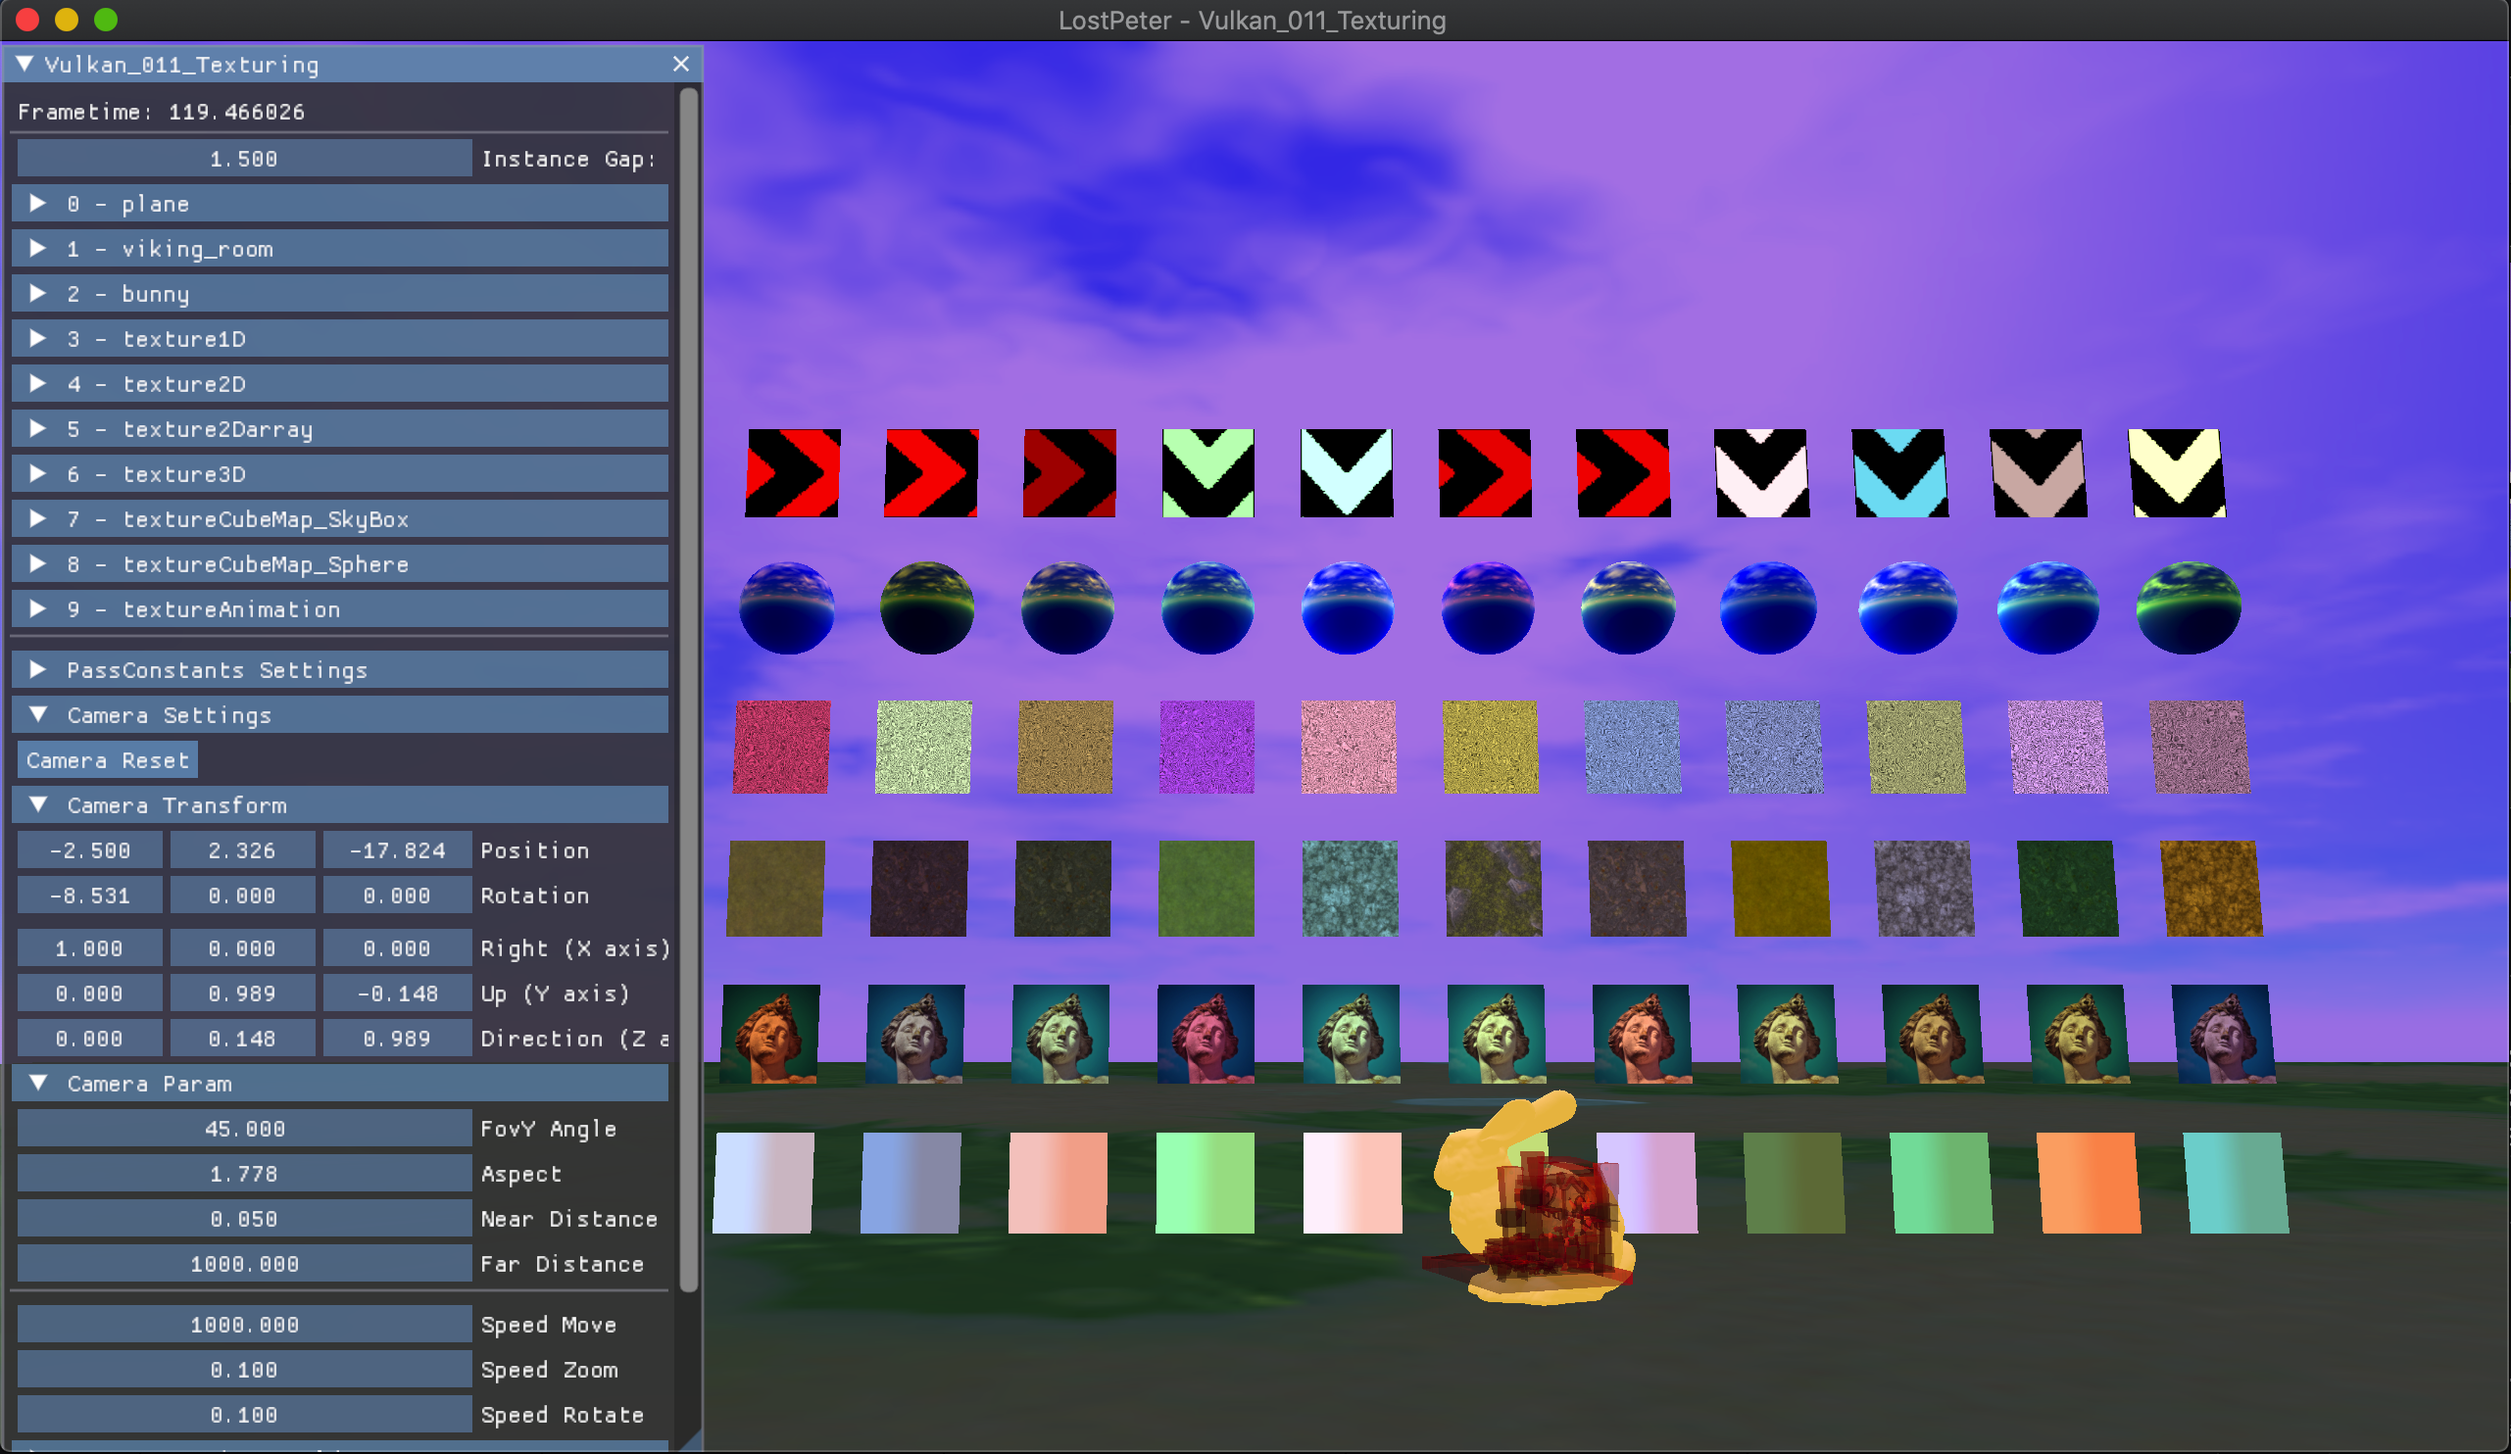
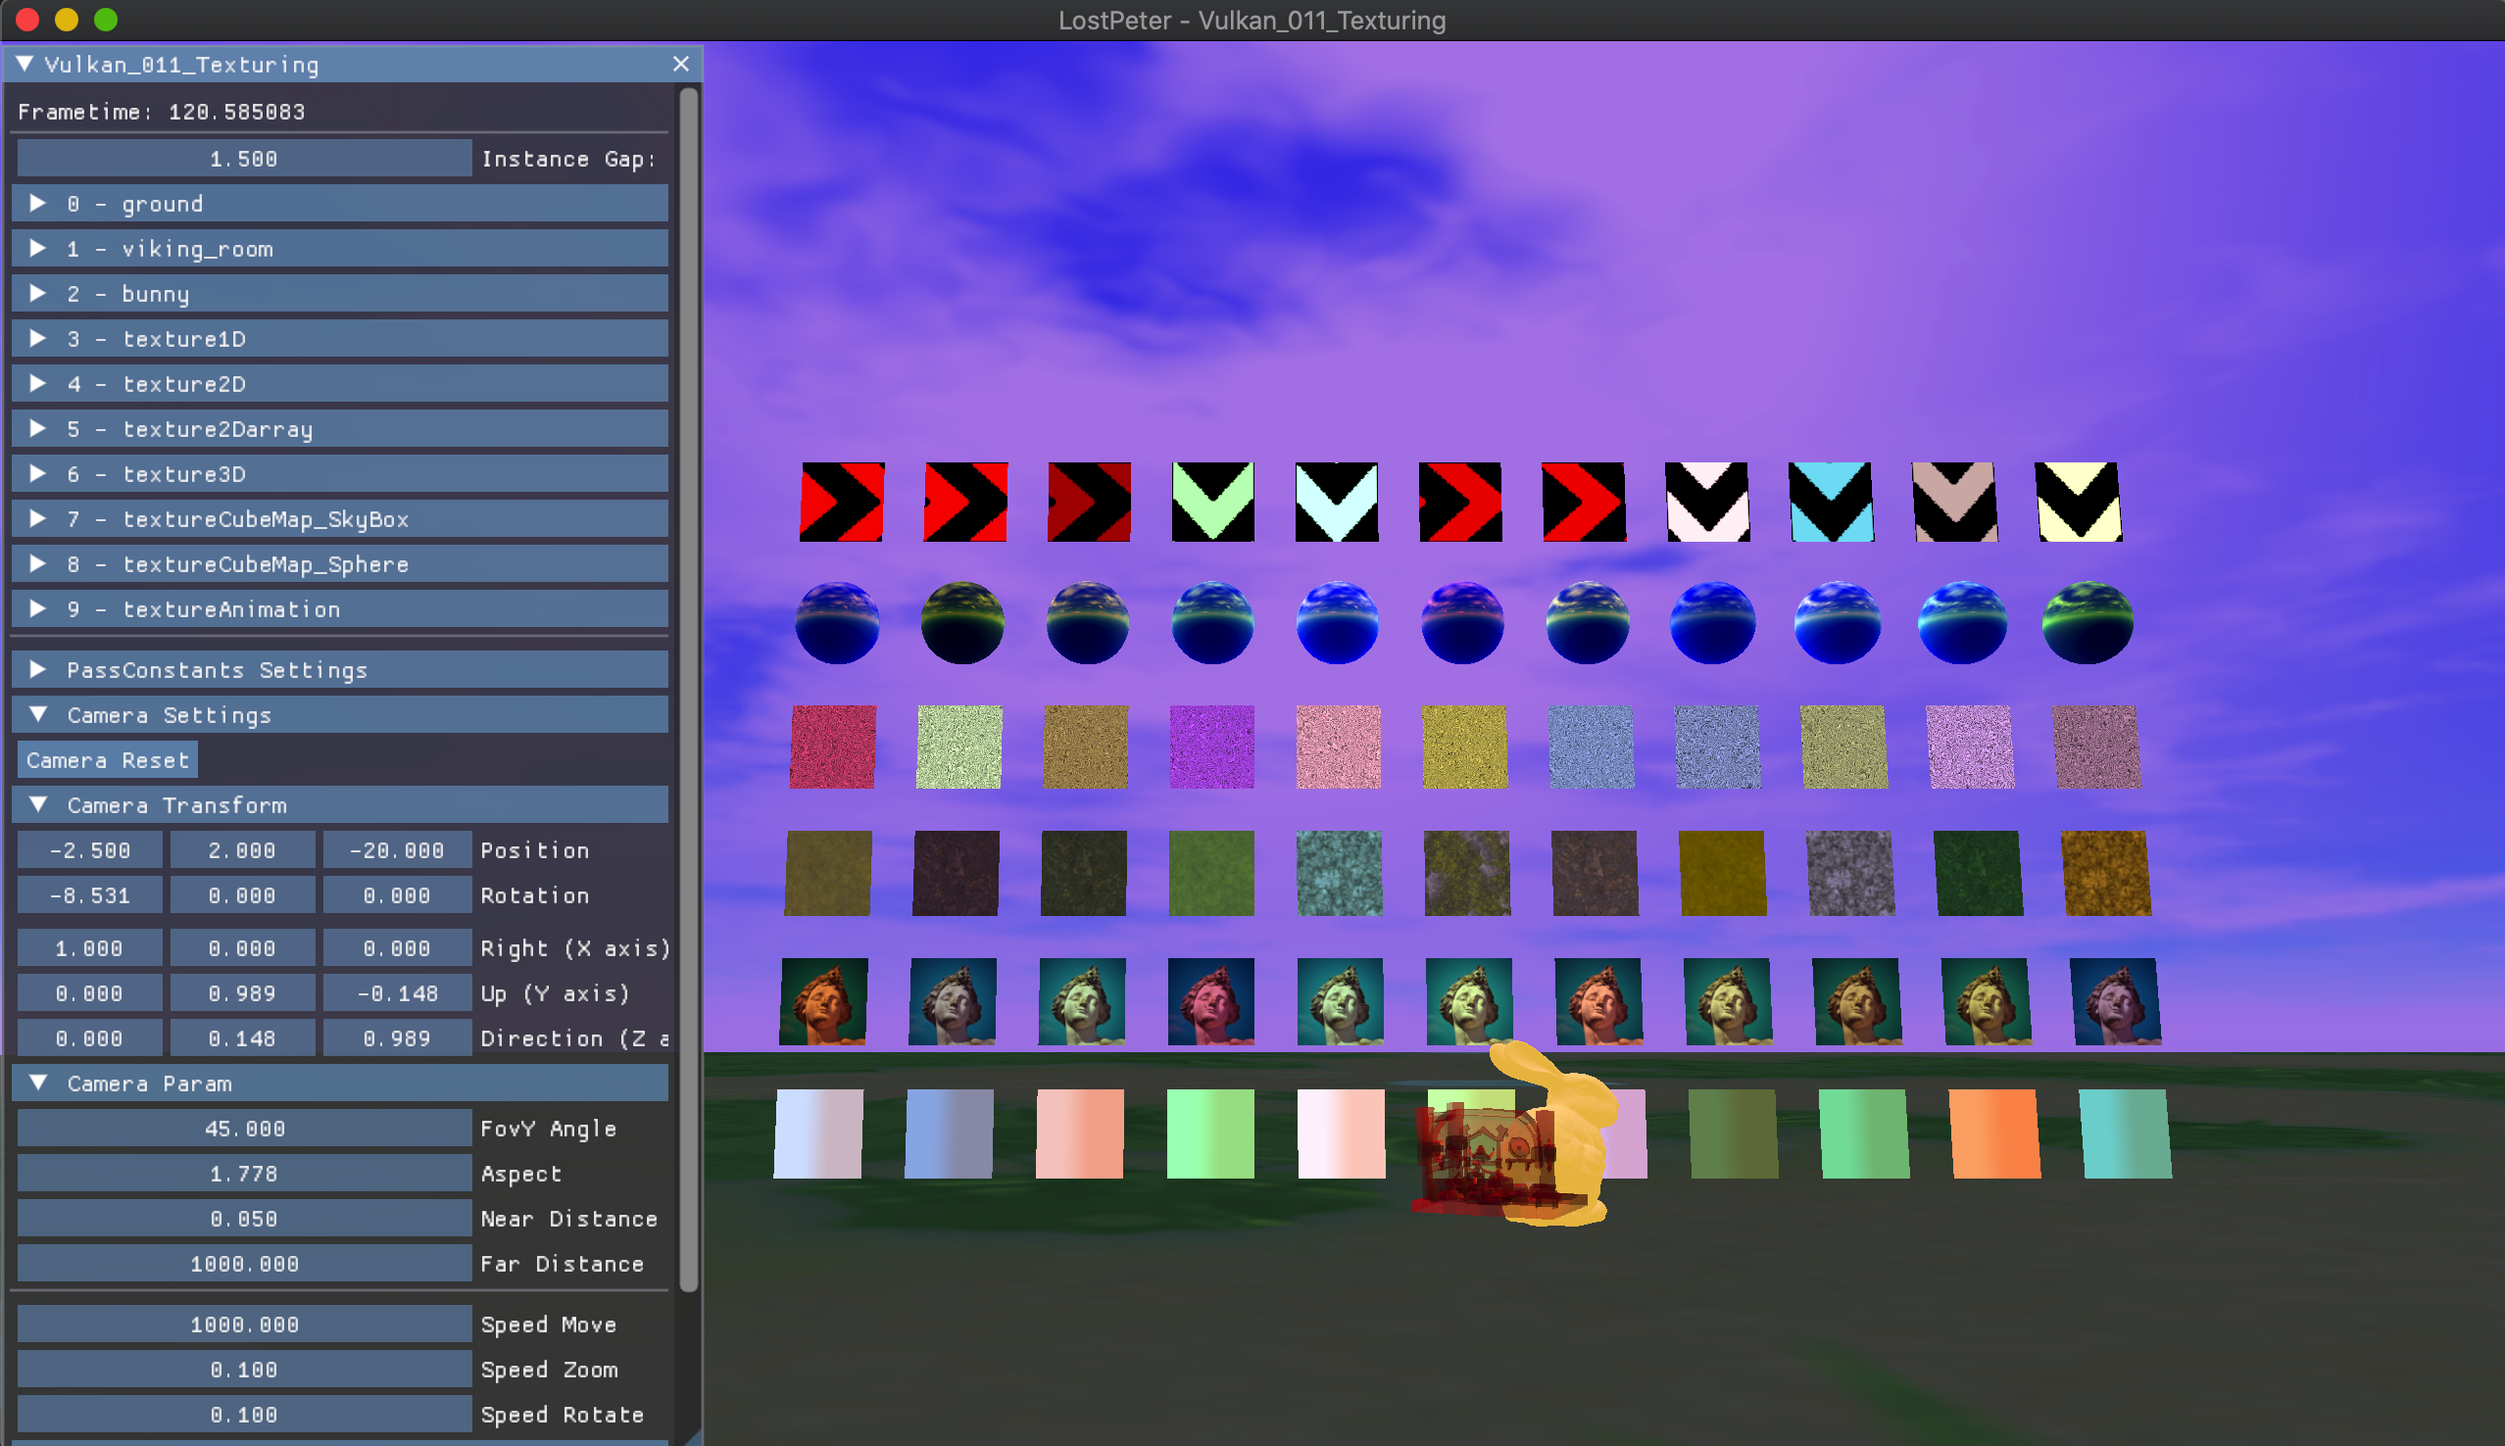
LostPeterVulkan: sample011: vulkan_011_texturing，update

diff --git a/Sample/vulkan_011_texturing/share/vulkan_011_texturing.cpp b/Sample/vulkan_011_texturing/share/vulkan_011_texturing.cpp
@@ -141,7 +141,7 @@ static const int g_ModelCount = 10;
 static const char* g_pathModels[4 * g_ModelCount] = 
 {
     //Model Name                //Model Path                                        //Texture One                    //Texture Two
-    "plane",                    "Assets/Model/Fbx/plane.fbx",                       "terrain",                       "", //plane
+    "ground",                    "Assets/Model/Fbx/plane.fbx",                       "terrain",                       "", //ground
     "viking_room",              "Assets/Model/Obj/viking_room/viking_room.obj",     "viking_room",                   "", //viking_room
     "bunny",                    "Assets/Model/Obj/bunny/bunny.obj",                 "white",                         "", //bunny  
 
@@ -157,7 +157,7 @@ static const char* g_pathModels[4 * g_ModelCount] =
 
 static const VulkanTextureType g_ModelsTextureTypes[2 * g_ModelCount] =
 {
-    Vulkan_Texture_2D, Vulkan_Texture_2D, //plane 
+    Vulkan_Texture_2D, Vulkan_Texture_2D, //ground 
     Vulkan_Texture_2D, Vulkan_Texture_2D, //viking_room
     Vulkan_Texture_2D, Vulkan_Texture_2D, //bunny 
 
@@ -173,7 +173,7 @@ static const VulkanTextureType g_ModelsTextureTypes[2 * g_ModelCount] =
 
 static const char* g_pathModelShaderModules[g_ModelCount] = 
 {
-    "Assets/Shader/standard_mesh_opaque_tex2d_lit", //plane 
+    "Assets/Shader/standard_mesh_opaque_tex2d_lit", //ground 
     "Assets/Shader/standard_mesh_transparent_lit", //viking_room
     "Assets/Shader/standard_mesh_opaque_tex2d_lit", //bunny 
 
@@ -191,7 +191,7 @@ static float g_instanceGap = 1.5f;
 
 static int g_instanceExtCount[] =
 {
-    0, //plane
+    0, //ground
     0, //viking_room
     0, //bunny
 
@@ -207,7 +207,7 @@ static int g_instanceExtCount[] =
 
 static glm::vec3 g_tranformModels[3 * g_ModelCount] = 
 {   
-    glm::vec3(   0,   0,    0),     glm::vec3(     0,  0,  0),    glm::vec3( 1.0f,   1.0f,   1.0f), //plane
+    glm::vec3(   0,   0,    0),     glm::vec3(     0,  0,  0),    glm::vec3( 1.0f,   1.0f,   1.0f), //ground
     glm::vec3(   0,   0,   -2),     glm::vec3(     0,  0,  0),    glm::vec3( 1.0f,   1.0f,   1.0f), //viking_room
     glm::vec3(   0,   0,   -4),     glm::vec3(     0, 180, 0),    glm::vec3( 1.0f,   1.0f,   1.0f), //bunny
 
@@ -223,7 +223,7 @@ static glm::vec3 g_tranformModels[3 * g_ModelCount] =
 
 static glm::mat4 g_tranformLocalModels[g_ModelCount] = 
 {
-    MathUtil::ms_mat4Unit, //plane
+    MathUtil::ms_mat4Unit, //ground
     MathUtil::RotateX(-90.0f), //viking_room
     MathUtil::ms_mat4Unit, //bunny
 
@@ -239,7 +239,7 @@ static glm::mat4 g_tranformLocalModels[g_ModelCount] =
 
 static bool g_isTranformLocalModels[g_ModelCount] = 
 {
-    false, //plane
+    false, //ground
     true, //viking_room
     false, //bunny
 
@@ -255,7 +255,7 @@ static bool g_isTranformLocalModels[g_ModelCount] =
 
 static bool g_isFlipYModels[g_ModelCount] = 
 {
-    true, //plane
+    true, //ground
     false, //viking_room
     false, //bunny
 
@@ -271,7 +271,7 @@ static bool g_isFlipYModels[g_ModelCount] =
 
 static bool g_isTransparentModels[g_ModelCount] = 
 {
-    false, //plane
+    false, //ground
     true, //viking_room
     false, //bunny
 
@@ -287,7 +287,7 @@ static bool g_isTransparentModels[g_ModelCount] =
 
 static bool g_isRotateModels[g_ModelCount] =
 {
-    false, //plane
+    false, //ground
     true, //viking_room
     true, //bunny
 
@@ -303,7 +303,7 @@ static bool g_isRotateModels[g_ModelCount] =
 
 static bool g_isLightingModels[g_ModelCount] =
 {
-    true, //plane
+    true, //ground
     true, //viking_room
     true, //bunny
 
